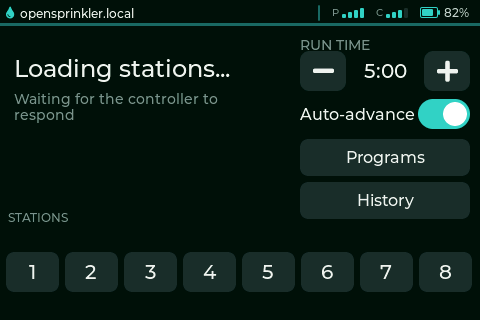
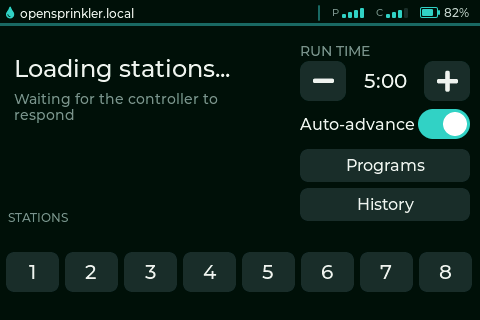
Respace RUN TIME label above the stepper (#131)
The "RUN TIME" label sat directly on top of the "-" stepper button on
both the idle home screen and the manual-run screen, crowding the two.
Push the stepper down (STEP_Y 14->24) and tuck the label just above it
(y 0->6) so the label clearly captions the stepper with a small gap
instead of overlapping it. Absorb the downward shift by trimming the nav
buttons (37->33px) and the bottom gap (6->5px) so Programs/History still
reach near the station pills. Regenerate the 8 affected sim goldens
(6 idle-*, 2 run-manual).

Copilot-Session: e9242aba-b524-48da-8bd5-a10cf8c2ef23

Changed region(s): [[0.625, 0.125, 1.0, 0.6875], [0.625, 0.6562, 0.6562, 0.6875]]

diff --git a/lib/ui/panel_screen.cpp b/lib/ui/panel_screen.cpp
@@ -219,7 +219,7 @@ PanelScreen build_panel_screen(lv_obj_t* scr, const Callbacks& cbs) {
         // panel down into that band, stopping NAV_BOT_GAP above the pills, so
         // the Programs + History nav buttons can be taller and reach closer to
         // the grid (the stepper + auto-advance above are unaffected).
-        static constexpr int NAV_BOT_GAP   = 6;      // breathing gap above pills
+        static constexpr int NAV_BOT_GAP   = 5;      // breathing gap above pills
         static constexpr int RIGHT_PANEL_H =
             (GRID_Y + 18 - NAV_BOT_GAP) - CONTENT_Y;  // taller than CONTENT_H
         lv_obj_set_size(pnl, RIGHT_W, RIGHT_PANEL_H);
@@ -229,22 +229,23 @@ PanelScreen build_panel_screen(lv_obj_t* scr, const Callbacks& cbs) {
         lv_obj_set_style_pad_all(pnl, 10, 0);
         lv_obj_clear_flag(pnl, LV_OBJ_FLAG_SCROLLABLE);
 
-        // Tightened vertical rhythm (#127): the right column now stacks TWO
-        // nav buttons (Programs + History) below auto-advance, so the stepper
-        // and auto-advance sit a few px higher and are slightly shorter than
-        // the original single-button layout to free room. (STEP_Y 18->14,
-        // STEP_H 44->40, AA gap 8->6, AA_H 38->34.)
-        static constexpr int STEP_Y = 14;
+        // Vertical rhythm (#127 + bench polish): the right column stacks the
+        // run-time stepper, auto-advance, then two nav buttons (Programs +
+        // History). STEP_Y clears the "RUN TIME" label (montserrat_14, ~19px)
+        // so the label is not crowded by the "-" button below it.
+        static constexpr int STEP_Y = 24;
         static constexpr int STEP_H = 40;
         static constexpr int PANEL_PAD = 10;
         static constexpr int PANEL_CONTENT_W = RIGHT_W - (2 * PANEL_PAD);
 
-        // Run time label
+        // Run time label — tucked just above the stepper (small gap) so it
+        // reads clearly as that control's label rather than floating between
+        // the panel top and the stepper.
         lv_obj_t* rt_lbl = lv_label_create(pnl);
         lv_label_set_text(rt_lbl, "RUN TIME");
         lv_obj_set_style_text_font(rt_lbl, &lv_font_montserrat_14, 0);
         lv_obj_set_style_text_color(rt_lbl, hex_color(CLR_MUTED), 0);
-        lv_obj_align(rt_lbl, LV_ALIGN_TOP_LEFT, 0, 0);
+        lv_obj_align(rt_lbl, LV_ALIGN_TOP_LEFT, 0, 6);
 
         // Run-time stepper: [-] MM:SS [+]
         ps.btn_rt_minus = make_btn(pnl, LV_SYMBOL_MINUS,
@@ -308,10 +309,10 @@ PanelScreen build_panel_screen(lv_obj_t* scr, const Callbacks& cbs) {
         // the two buttons fill a taller nav band below auto-advance (8px
         // breathing gap below the toggle) down to NAV_BOT_GAP above the pills,
         // overlapping the 10px bottom pad (same bg) to reclaim it. This makes
-        // each button noticeably taller (31->37px) and lets the pair reach
+        // each button noticeably taller (31->33px) and lets the pair reach
         // closer to the grid, while the stepper + auto-advance above keep their
-        // current legible spacing.
-        static constexpr int NAV_BTN2_H  = 37;  // shared nav-button height
+        // legible spacing (with RUN TIME no longer crowding the stepper).
+        static constexpr int NAV_BTN2_H  = 33;  // shared nav-button height
         static constexpr int NAV_BTN2_G  = 6;   // gap between the two buttons
         static constexpr int NAV_TOP_GAP = 8;   // gap below auto-advance toggle
         const int nav_top    = AA_Y + AA_H + NAV_TOP_GAP;  // below auto-adv
